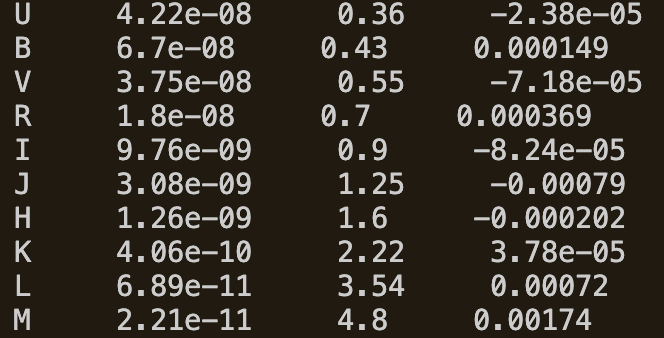
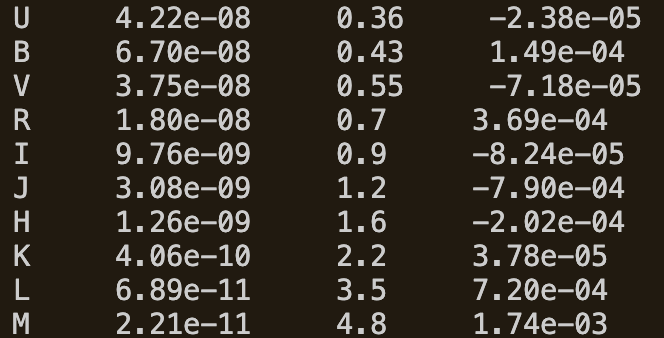
scientific notation stuff

diff --git a/HW1/conversion.py b/HW1/conversion.py
@@ -4,12 +4,12 @@ import matplotlib.pyplot as plt
 # Values for Johnson UBVRI+ photometric system
 bands = np.array(['U','B','V','R','I','J','H','K','L','M','N','O'])
 flux_density = np.array([4.22e-8, 6.7e-8, 3.75e-8, 1.8e-8, 9.76e-9, 3.08e-9, 1.26e-9, 4.06e-10, 6.89e-11, 2.21e-11])  # in W m^-2 micron^-1
-eff_wavelength = np.array([0.36, 0.43, 0.55, 0.7, 0.9, 1.25, 1.6, 2.22, 3.54, 4.8])  # in microns
+eff_wavelength = np.array([0.36, 0.43, 0.55, 0.70, 0.90, 1.25, 1.60, 2.22, 3.54, 4.80])  # in microns
 magnitude = np.array([-2.38e-5, 1.49e-4, -7.18e-5, 3.69e-4, -8.24e-5, -7.9e-4, -2.02e-4, 3.78e-5, 7.2e-4, 1.74e-3])
 
 # Print values
 for b,f,w,m in zip(bands, flux_density, eff_wavelength, magnitude):
-    print(f"{b}     {f}     {w}     {m}")
+    print(f"{b}     {f:.2e}     {w:.2}     {m:.2e}")
 
 
 # Plot

diff --git a/HW1/magnitude.py b/HW1/magnitude.py
@@ -15,3 +15,5 @@ plt.savefig("magnitude_plot.pdf")
 plt.show()
 
 # Brightness ratio
+bright_ratio = 100**((30-16)/5)
+print(f"Brightness ratio: {bright_ratio:.3e}")
